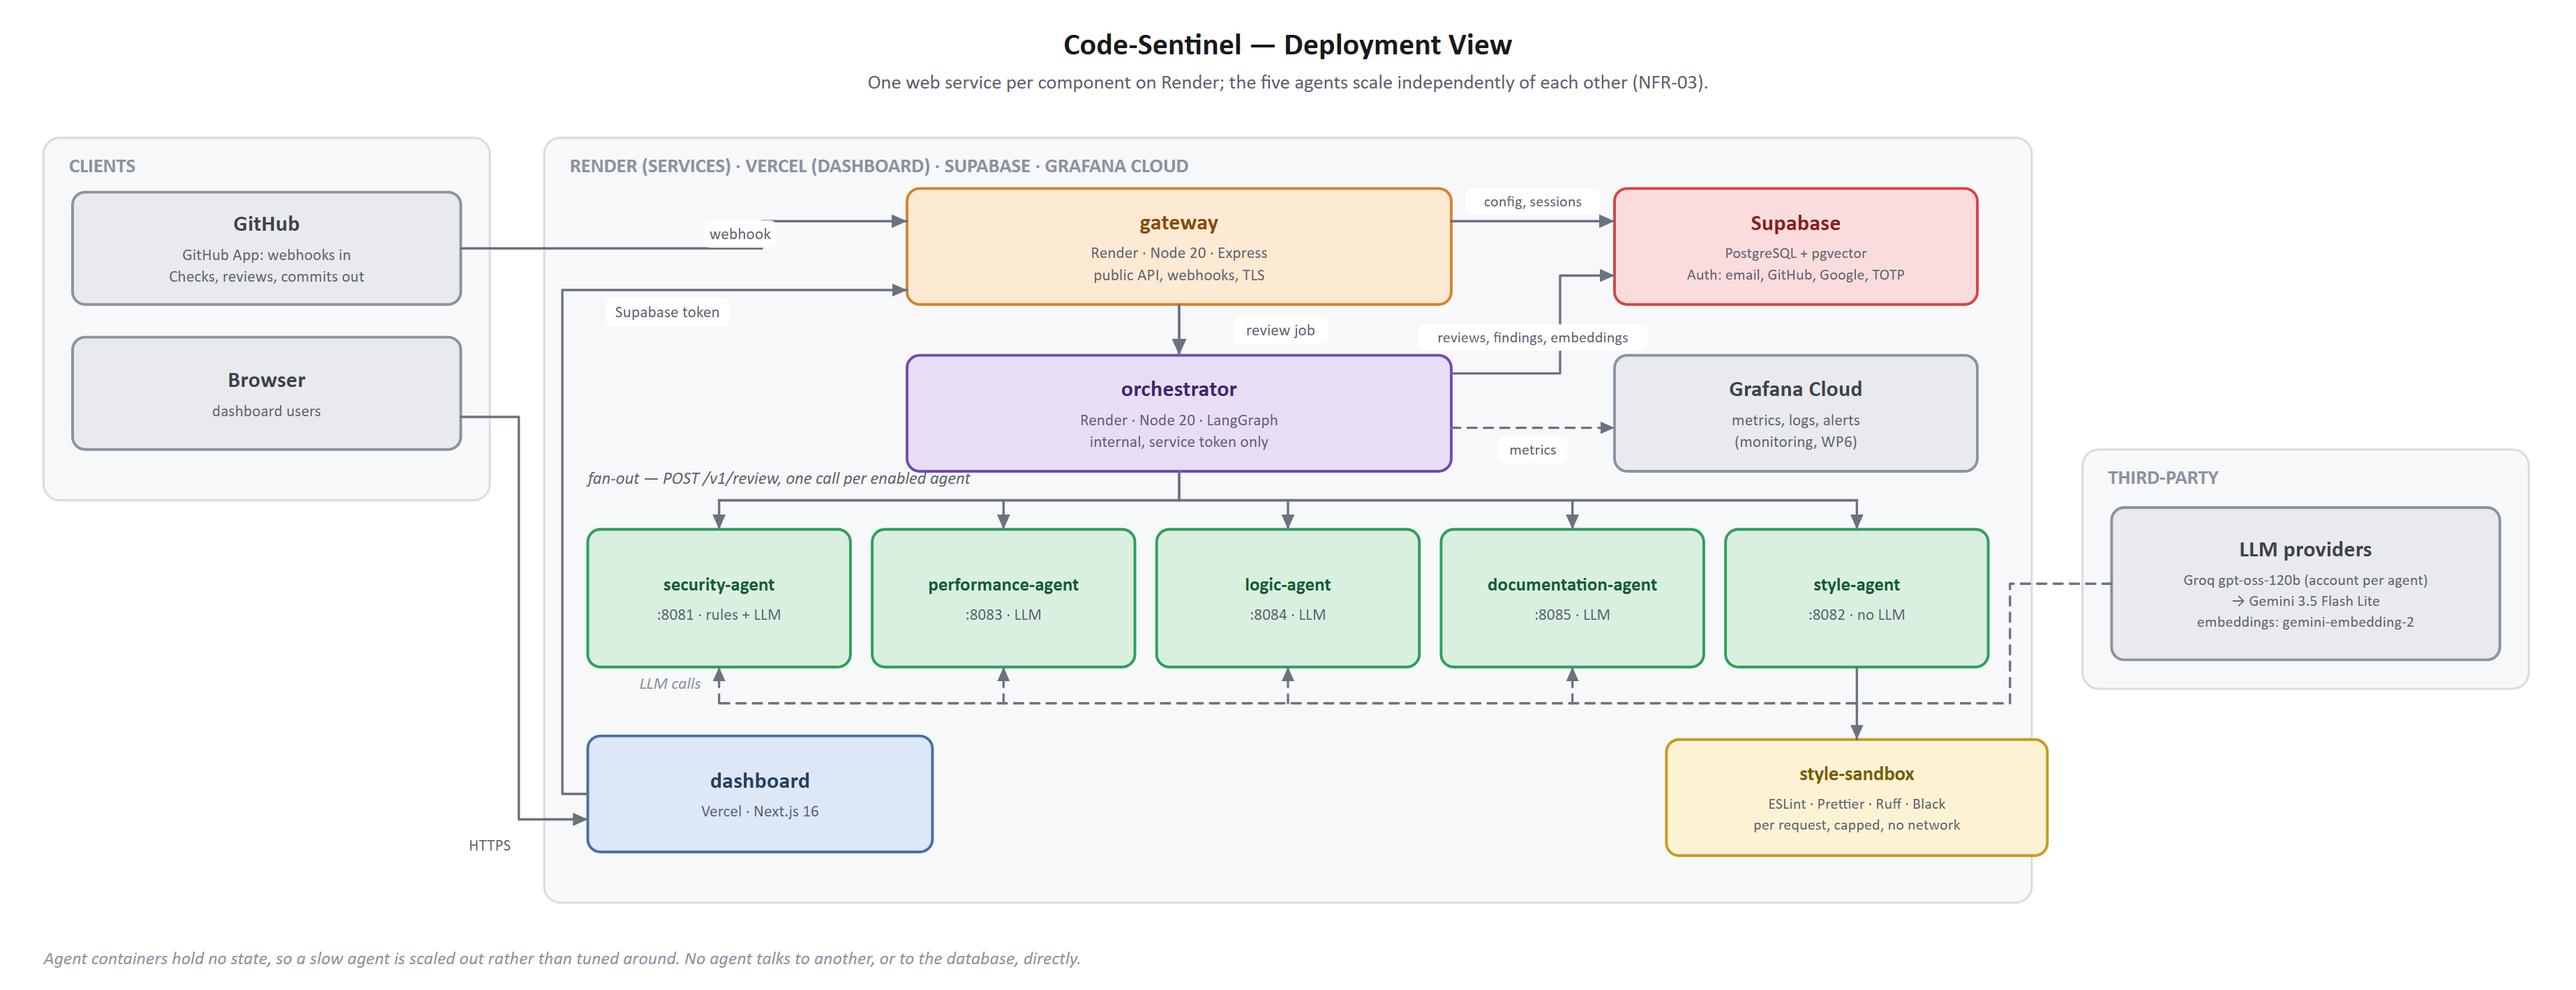
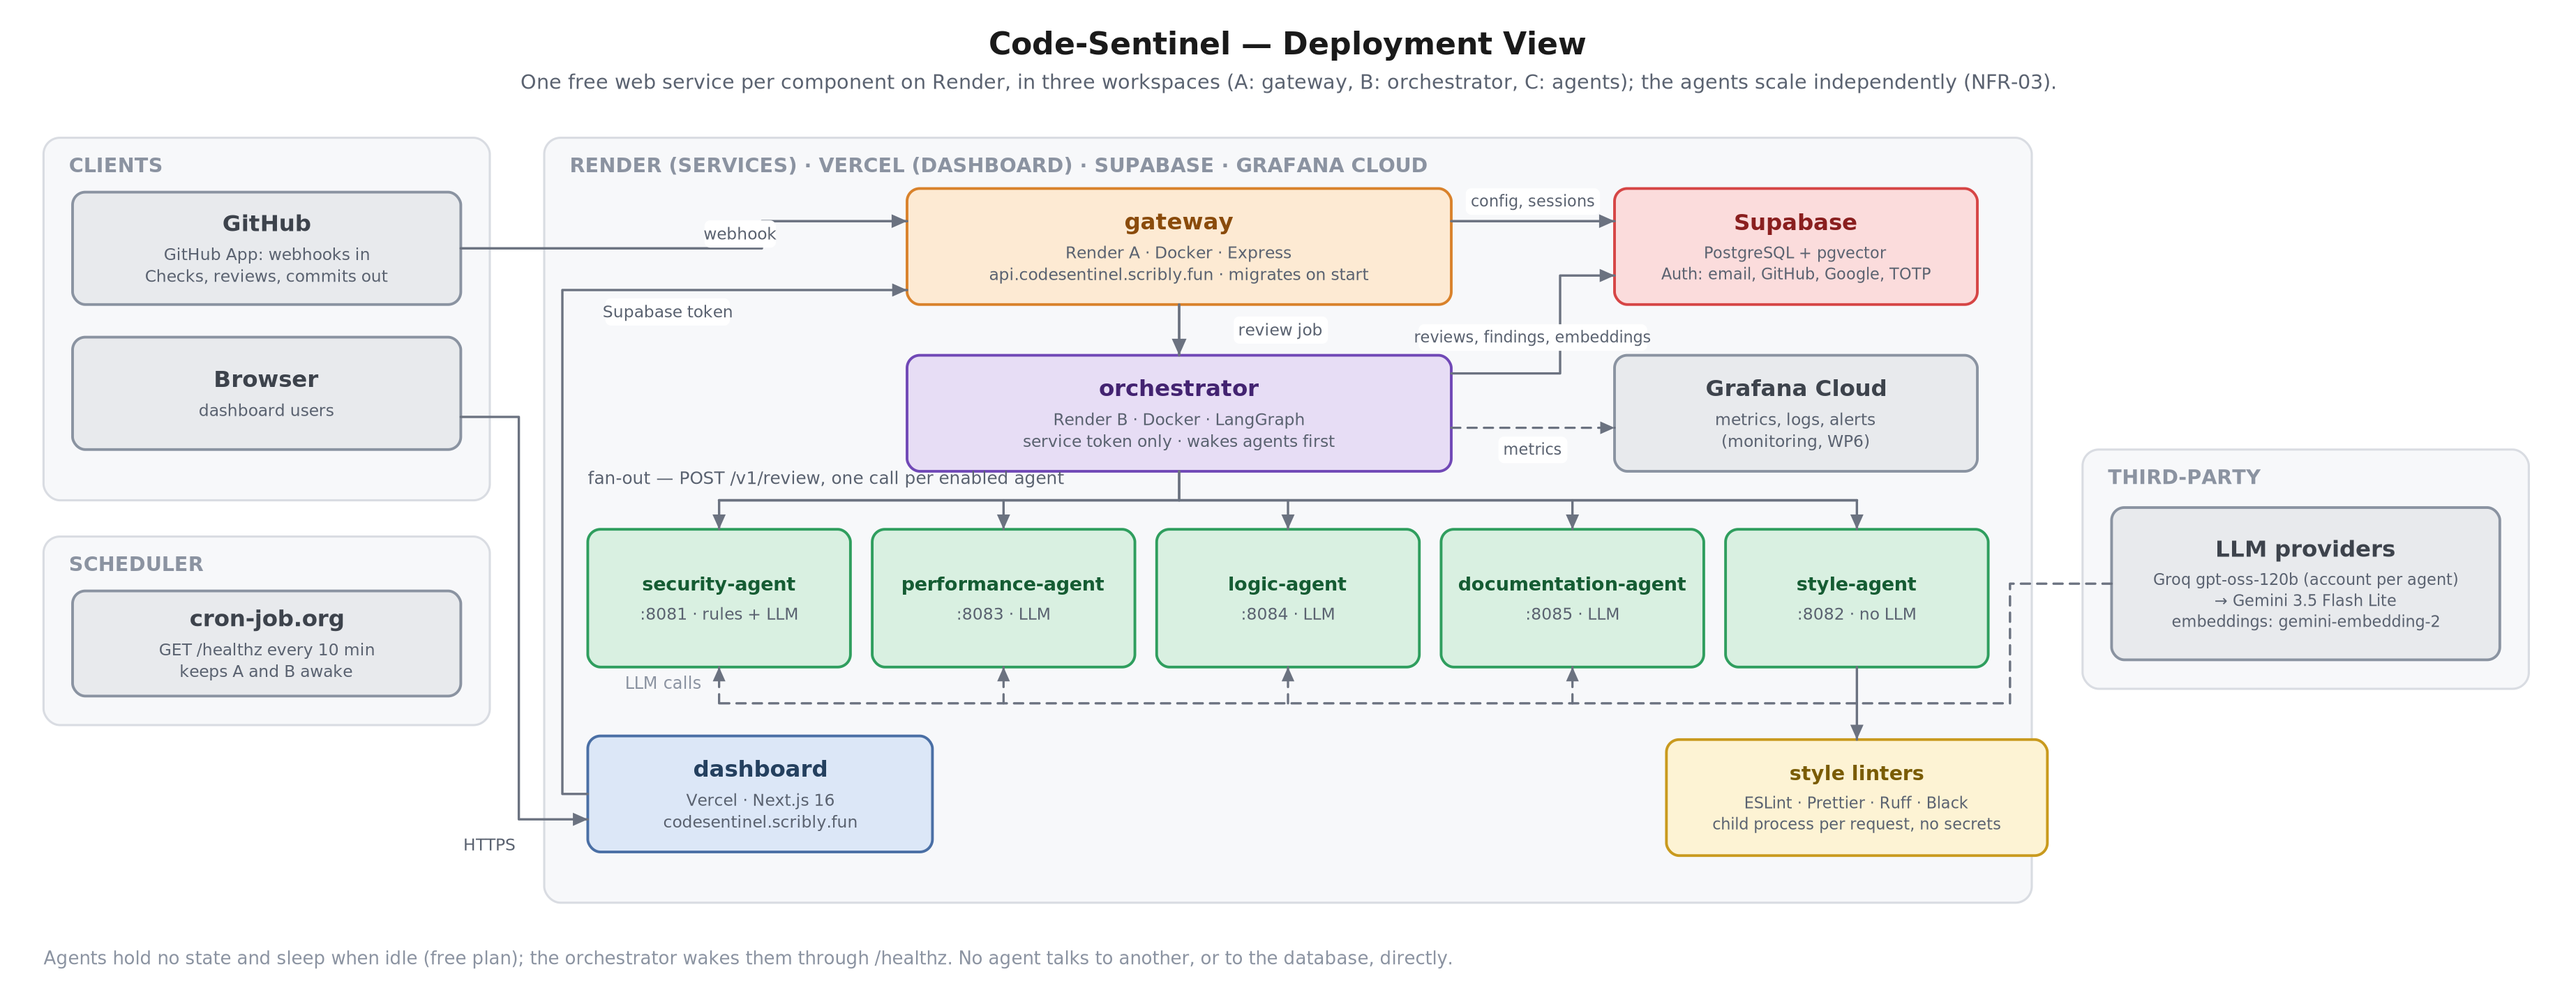
Document production deployment

diff --git a/README.md b/README.md
@@ -22,7 +22,7 @@ services/        Deployable services (one per SOA component)
   gateway/       Express API gateway — webhook receipt, auth, routing to the orchestrator
   orchestrator/  LangGraph orchestrator — review-job API, fan-out, aggregation, severity ranking, context
   security-agent/ Security Agent — SAST and secret rules on added lines, plus an LLM pass over the whole files
-  style-agent/   Style Agent — ESLint/Prettier and Ruff/Black in a per-request Docker sandbox, no LLM
+  style-agent/   Style Agent — ESLint/Prettier and Ruff/Black in a per-request sandbox (Docker, or a child process on Render), no LLM
   performance-agent/ Performance Agent — N+1 queries, blocking calls and repeated work, by LLM over the whole files
   logic-agent/   Logic Agent — null handling, off-by-one and unhandled errors, by LLM over the whole files
   documentation-agent/ Documentation Agent — docstrings for public code the PR touches, by LLM (always info)
@@ -33,6 +33,8 @@ packages/        Shared libraries
   service-kit/   Shared HTTP plumbing — JSON logger, request id, request log, ApiError handler, env file
   db/            Prisma 7 schema, migrations and client for the Supabase Postgres database
 docs/            Course deliverables and design artifacts
+render/          Render Blueprints (gateway, orchestrator, agents)
+Dockerfile       One image per service (--build-arg SERVICE=<name>); the style-agent has its own
 ```
 
 Every agent gets each changed file whole (up to the gateway's `FILE_CONTENT_MAX_BYTES`) with the
@@ -103,7 +105,7 @@ npm run dev -w @code-sentinel/dashboard
 ## Continuous integration
 
 [`.github/workflows/ci.yml`](.github/workflows/ci.yml) runs on every pull request and on every push
-to `main`. The `checks` job runs on Node 20 and Node 22 (`fail-fast: false`, so one version
+to `main` and `dev`. The `checks` job runs on Node 20 and Node 22 (`fail-fast: false`, so one version
 failing still reports the other) and executes, from a clean `npm ci`:
 
 ```bash
@@ -151,6 +153,59 @@ docker run --rm -v "$(pwd):/repo" -w /repo rhysd/actionlint:latest -color
 On Windows, run the same command from PowerShell with `"${PWD}:/repo"` as the volume.
 
 No output and exit code 0 means the workflow is valid.
+
+## Deployment
+
+| Part | Where | URL |
+| --- | --- | --- |
+| Dashboard | Vercel | `https://codesentinel.scribly.fun` |
+| Gateway | Render, workspace A | `https://api.codesentinel.scribly.fun` (GitHub webhook: `/webhooks/github`) |
+| Orchestrator | Render, workspace B | its `onrender.com` URL, called only by the gateway |
+| Five agents | Render, workspace C | their `onrender.com` URLs, called only by the orchestrator |
+| Database and sign-in | Supabase (dev project) | |
+
+Everything runs on free plans:
+
+- **Three Render workspaces.** Render gives each workspace 750 free hours a month, and a free
+  service sleeps after 15 idle minutes. GitHub waits only about 10 s for a webhook answer, so the
+  gateway and the orchestrator have a workspace each and stay awake (about 720 hours each).
+- **Keep-warm job.** A [cron-job.org](https://cron-job.org) job requests both `/healthz` URLs every
+  10 minutes.
+- **Agents sleep.** The orchestrator wakes each one through `/healthz` before its review call
+  (`AGENT_WAKE_TIMEOUT_MS=90000`).
+- **Public calls between services.** Workspaces don't share a private network, so each hop is a
+  public HTTPS call with `SERVICE_TOKEN`.
+
+**Images.** The root [`Dockerfile`](Dockerfile) builds any service from its pruned workspace
+(`turbo prune`). Render passes the `SERVICE` env var as the build arg:
+
+```bash
+docker build --build-arg SERVICE=gateway -t cs/gateway .
+```
+
+The style-agent has its own [`Dockerfile`](services/style-agent/Dockerfile), with the linters
+installed and `SANDBOX_MODE=process`. Render can't run Docker inside a service; see the
+[style-agent README](services/style-agent/README.md#process-mode-render).
+
+**Blueprints.** One per workspace: [`render/gateway.yaml`](render/gateway.yaml),
+[`render/orchestrator.yaml`](render/orchestrator.yaml) and [`render/agents.yaml`](render/agents.yaml).
+In each workspace: **New → Blueprint**, pick this repo and the file, then type the values marked
+`sync: false`:
+
+- **Secrets:** `SERVICE_TOKEN` (the same everywhere), `DATABASE_URL`, the GitHub App and LLM keys,
+  and `METRICS_TOKEN`.
+- **Service URLs:** the other workspaces' `onrender.com` URLs.
+- **The gateway also needs** the Secret File `github-app.pem`.
+
+**Deploys.** Each service redeploys after CI passes on `main` (`autoDeployTrigger: checksPass`), and
+only when its own paths change. The gateway runs `prisma migrate deploy` before it starts, because
+free services have no pre-deploy step.
+
+**The dashboard** is on Vercel; see the
+[dashboard README](apps/dashboard/README.md#deploy-vercel). The DNS records are in Hostinger:
+
+- `api.codesentinel`: CNAME to the gateway's `onrender.com` host
+- `codesentinel`: CNAME to Vercel's target
 
 ## Team
 

diff --git a/services/gateway/README.md b/services/gateway/README.md
@@ -626,10 +626,10 @@ example key (`AKIAIOSFODNN7EXAMPLE`, AWS's documented fake), `innerHTML` and bad
 
 **One-time setup (GitHub web UI):**
 
-1. Create a smee.io channel: open https://smee.io/new and copy its URL.
-2. Settings → Developer settings → GitHub Apps → **New GitHub App**:
-   - Homepage URL: the Code-Sentinel repo URL. Webhook URL: the smee channel URL. Webhook secret:
-     the value of `GITHUB_WEBHOOK_SECRET` in `services/gateway/.env`.
+1. Settings → Developer settings → GitHub Apps → **New GitHub App**:
+   - Homepage URL: the Code-Sentinel repo URL. Webhook URL: the deployed gateway,
+     `https://api.codesentinel.scribly.fun/webhooks/github` (before deployment this was a smee.io
+     channel, see below). Webhook secret: the value of `GITHUB_WEBHOOK_SECRET`, the same locally and on Render.
    - Repository permissions: **Pull requests: Read and write** (inline review comments),
      **Checks: Read and write** (the Check Run), **Contents: Read and write** (reading files, and committing
      a fix someone accepts, UC-3) (Metadata: Read is automatic). After changing a permission, approve it on
@@ -639,15 +639,15 @@ example key (`AKIAIOSFODNN7EXAMPLE`, AWS's documented fake), `innerHTML` and bad
      `requested_action`). GitHub sends `installation` and `installation_repositories` to every App without a
      subscription.
    - Where can it be installed: **Any account**, so organizations and teammates can install it.
-   - **Identifying and authorizing users:** Callback URL `http://localhost:3001/onboarding/github/callback`
-     (the dashboard), **Expire user authorization tokens** on, **Request user authorization (OAuth)
-     during installation** on.
-   - **Post installation:** Setup URL the same callback, **Redirect on update** on.
-3. On the App page: note the **App ID** and **Client ID**, **Generate a new client secret**, then
+   - **Identifying and authorizing users:** Callback URLs `https://codesentinel.scribly.fun/onboarding/github/callback`
+     and `http://localhost:3001/onboarding/github/callback` (the dashboard), **Expire user authorization tokens**
+     on, **Request user authorization (OAuth) during installation** on.
+   - **Post installation:** Setup URL the live callback, **Redirect on update** on.
+2. On the App page: note the **App ID** and **Client ID**, **Generate a new client secret**, then
    **Generate a private key** and save the `.pem` as `services/gateway/github-app.pem`.
-4. **Install App** from the dashboard (Repositories → **Add repositories**), or from GitHub on
+3. **Install App** from the dashboard (Repositories → **Add repositories**), or from GitHub on
    `code-sentinel-playground` and then **Connect GitHub** in the dashboard.
-5. In `services/gateway/.env`: `GITHUB_APP_ID=<id>`, `GITHUB_PRIVATE_KEY_PATH=github-app.pem`,
+4. In `services/gateway/.env`: `GITHUB_APP_ID=<id>`, `GITHUB_PRIVATE_KEY_PATH=github-app.pem`,
    `GITHUB_APP_CLIENT_ID`, `GITHUB_APP_CLIENT_SECRET` and `FIELD_ENCRYPTION_KEY` (see
    [Configuration](#configuration)), and in `apps/dashboard/.env.local` `GITHUB_APP_SLUG` and
    `GITHUB_APP_CLIENT_ID`. Then either of these:
@@ -657,11 +657,15 @@ example key (`AKIAIOSFODNN7EXAMPLE`, AWS's documented fake), `innerHTML` and bad
      `packages/db/.env` and run `npm run seed -w @code-sentinel/db`. `/healthz` then shows
      `"database":"ok"`.
 
-**Each run:**
+**Each run:** webhooks go to the deployed gateway. To receive them on a local gateway instead,
+create a channel at https://smee.io/new, set it as the App's Webhook URL for the session, run
 
 ```bash
 npx smee-client --url <smee channel URL> --target http://127.0.0.1:3000/webhooks/github
 ```
+
+and set the live URL back afterwards (the App has one webhook URL, so the live gateway gets nothing
+meanwhile).
 
 Start the orchestrator, the five agents and the gateway (see the root README), then
 open a pull request from `demo/risky-change` to `main` in the playground. The gateway log shows

diff --git a/packages/db/README.md b/packages/db/README.md
@@ -136,6 +136,10 @@ statements by hand, then `npm run migrate:deploy`. Check for drift with
 `npx prisma migrate diff --from-config-datasource --to-schema prisma/schema.prisma` ("No difference
 detected"), then regenerate `schema.sql` and the ER diagrams.
 
+**On deploy** the gateway applies pending migrations itself: its Render start command runs
+`npm run migrate:deploy -w @code-sentinel/db` before the server ([`render/gateway.yaml`](../../render/gateway.yaml)),
+with the gateway's `DATABASE_URL`. That's why `prisma` and `dotenv` are runtime dependencies here.
+
 Use `migrate deploy` rather than `migrate dev` to apply: `migrate dev` can stop at an interactive
 prompt and hold Prisma's advisory lock until it's killed.
 
